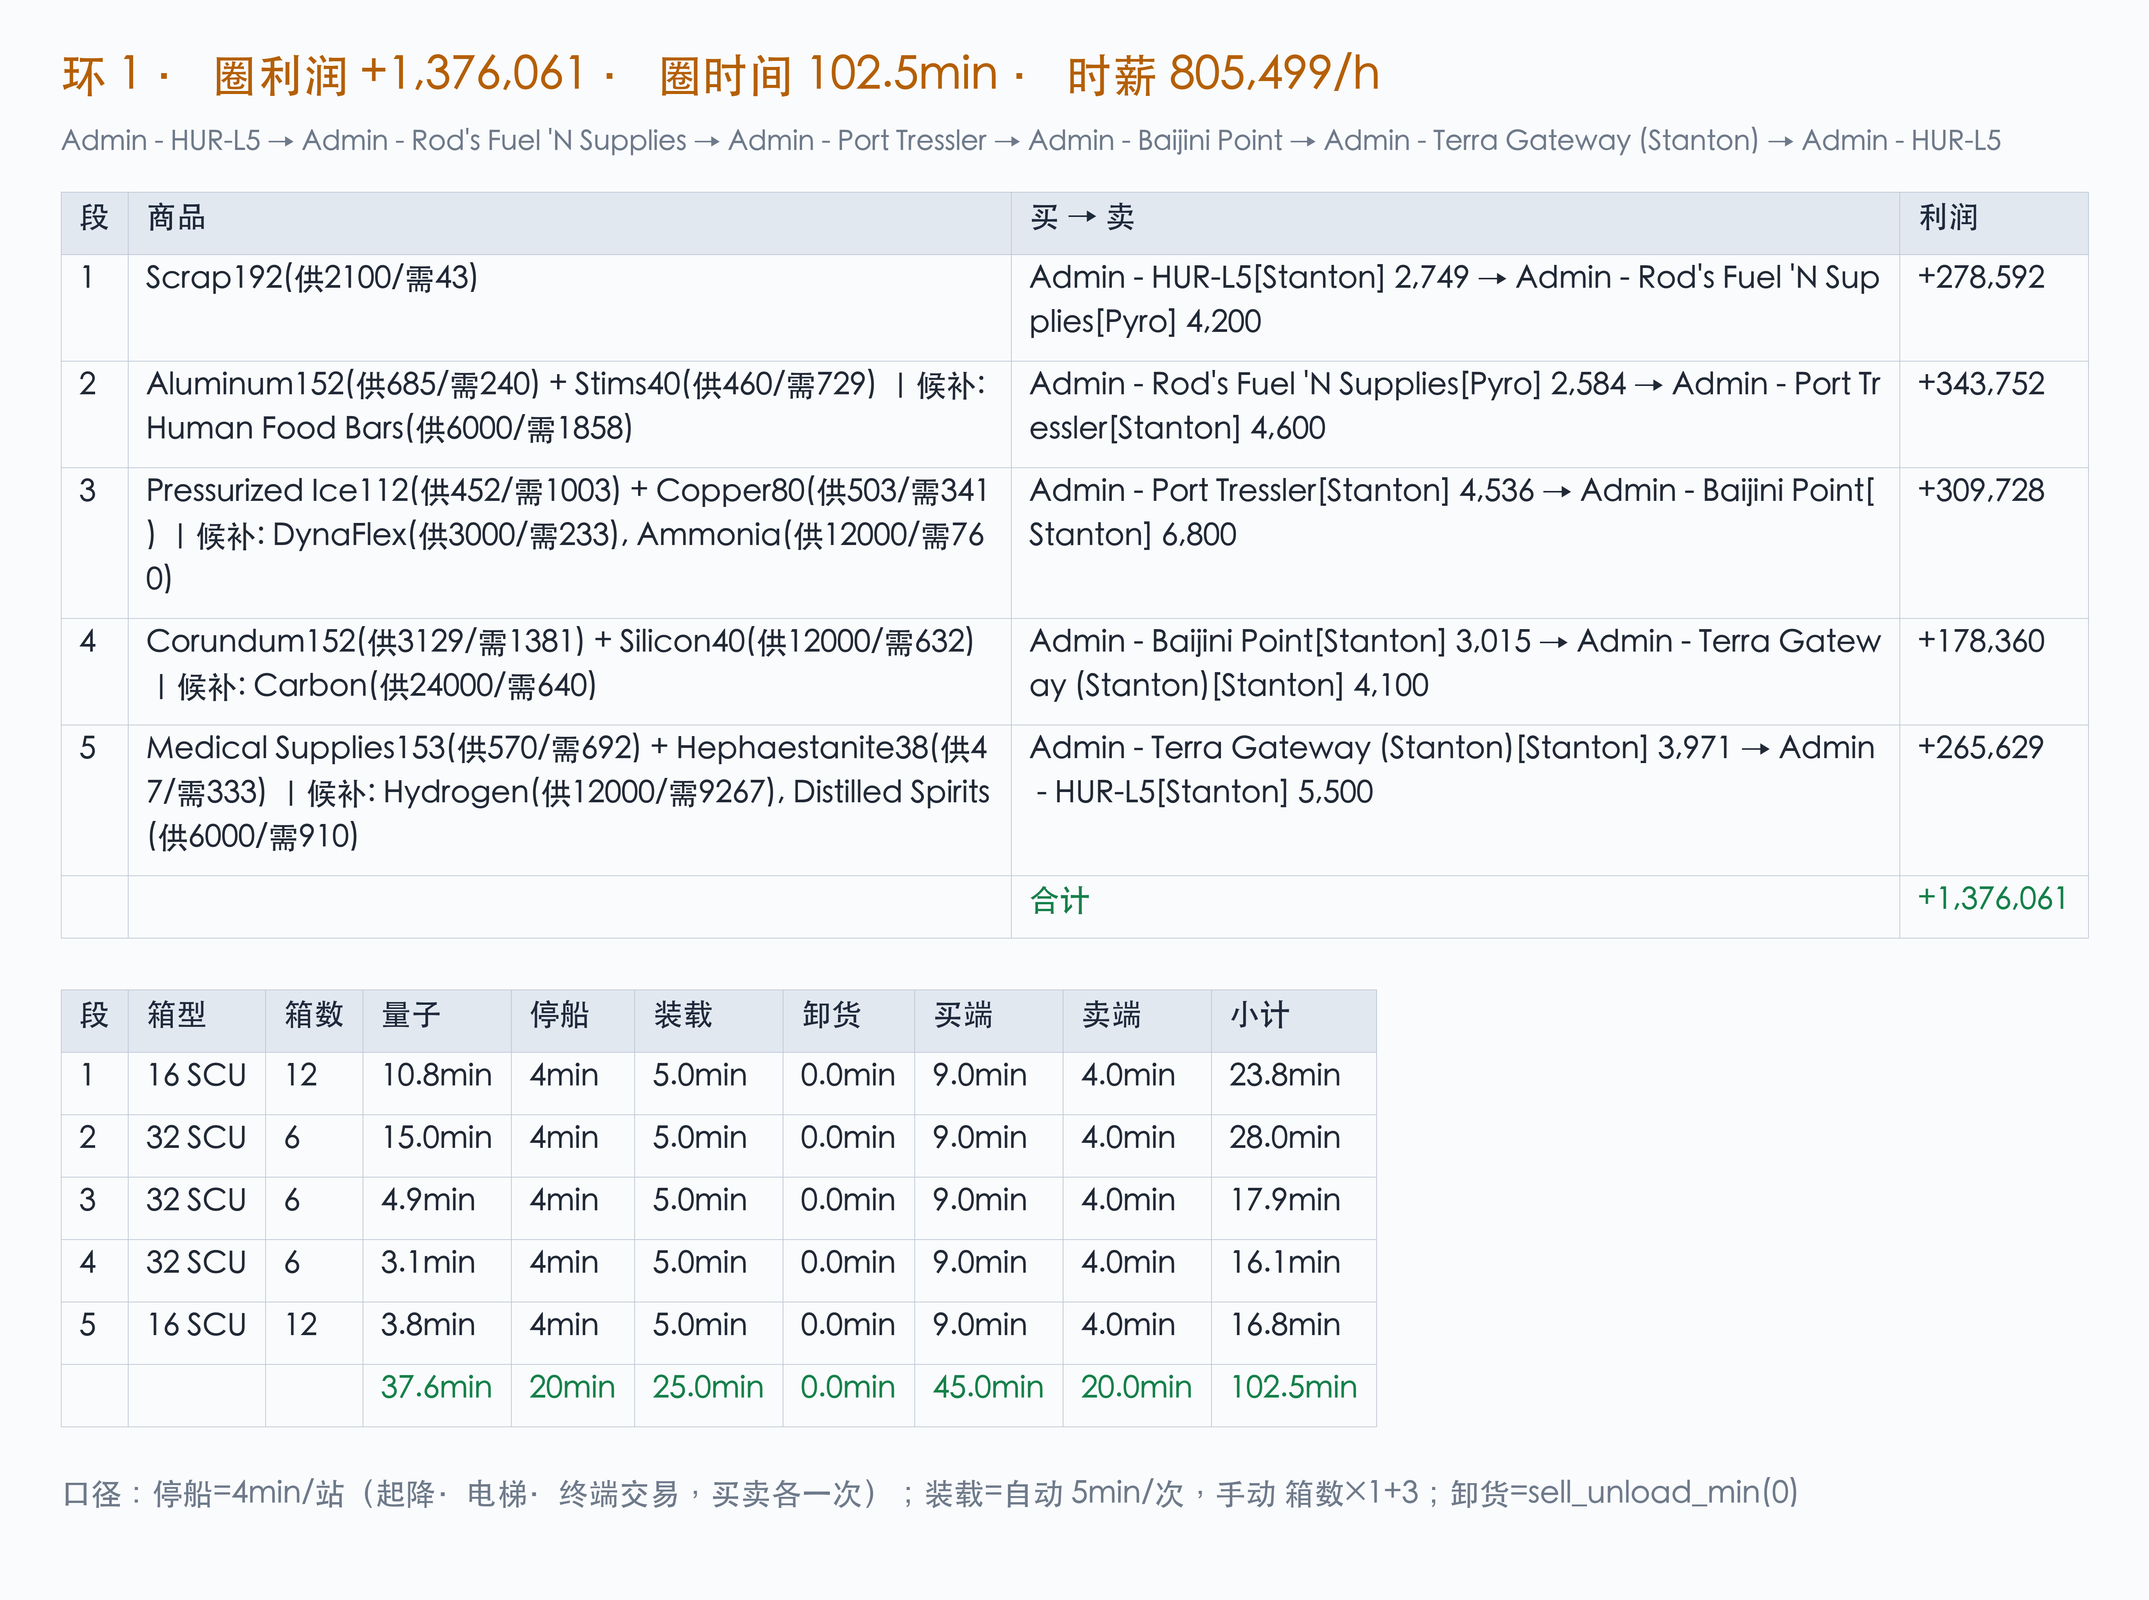
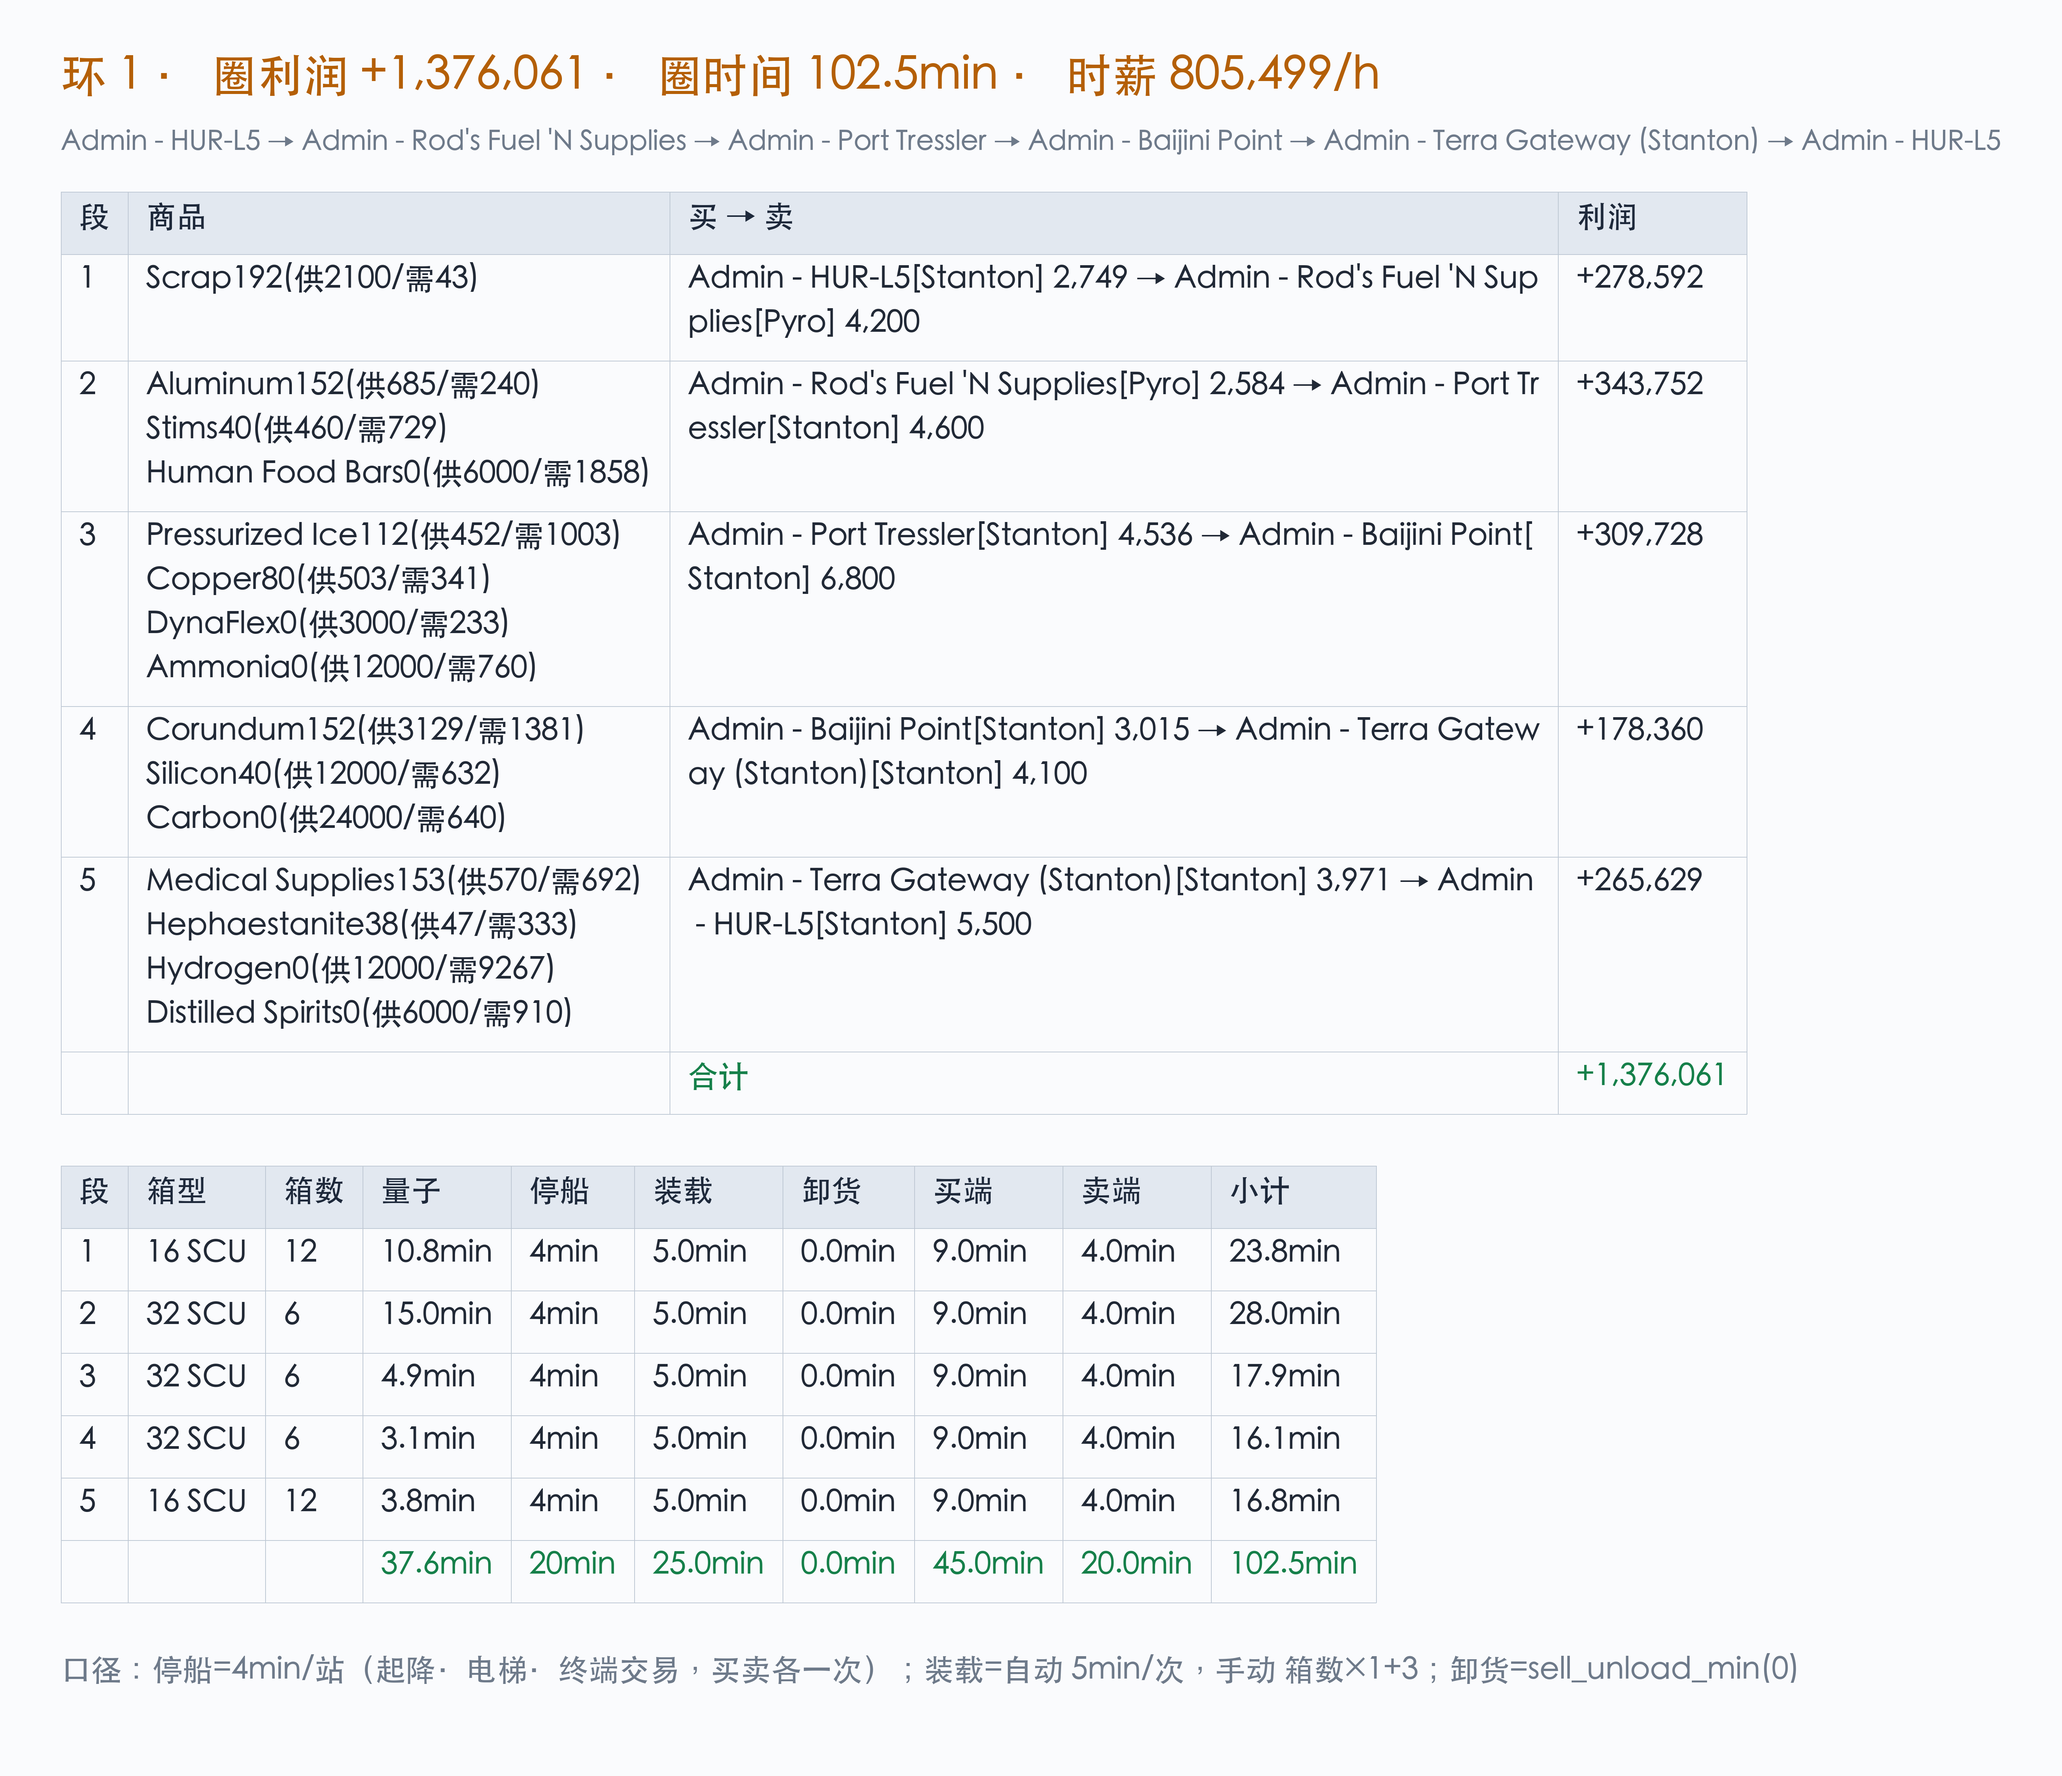
refactor: 商品列改为按优先级分行，不再区分实际购买/候补
商品列现在把该航程**所有**可选商品按单位利润降序列出，每行一个；行内带实际
分配到的数量（未装到的显示 0），格式：商品名数量(供X/需Y)。
  Pressurized Ice112(供452/需1003)
  Copper80(供503/需341)
  DynaFlex0(供3000/需233)
  Ammonia0(供12000/需760)

route_png.py 的 wrap() 支持 <br> 强制换行，图片里正确分行渲染。
重新生成 4 倍图：raft_5leg_pyro.png / raft_5leg_stanton.png。

diff --git a/skills/sc-trader/scripts/recommend.py b/skills/sc-trader/scripts/recommend.py
@@ -1271,15 +1271,13 @@ def run_loop_search(args) -> int:
             cands = lg.get("cands") or []
             sel = {it["commodity"] for it in items}
 
-            def cell(it, with_qty):
-                sd = (it.get("sell_row") or {}).get("scu_sell_stock")
-                return (f"{it['commodity']}{it['qty']}" if with_qty else f"{it['commodity']}") \
-                    + f"(\u4f9b{it.get('scu_stock')}/\u9700{sd if sd is not None else '-'})"
-
-            goods = " + ".join(cell(it, True) for it in items)
-            alt = [cell(c, False) for c in cands if c["commodity"] not in sel]
-            if alt:
-                goods += " \uff5c\u5019\u8865: " + ", ".join(alt)
+            taken = {it["commodity"]: it["qty"] for it in items}
+            rows_out = []
+            for c in cands:
+                sd = (c.get("sell_row") or {}).get("scu_sell_stock")
+                q = taken.get(c["commodity"], 0)
+                rows_out.append(f"{c['commodity']}{q}(供{c.get('scu_stock')}/需{sd if sd is not None else '-'})")
+            goods = "<br>".join(rows_out)
             print(f"| {n} | {goods} | "
                   f"{bn}[{sys_a}] {lg['price_buy']:,} \u2192 {sn}[{sys_b}] {lg['price_sell']:,} | "
                   f"+{lg['leg_profit']:,} |")

diff --git a/skills/sc-trader/scripts/route_png.py b/skills/sc-trader/scripts/route_png.py
@@ -66,16 +66,20 @@ def load_font(size: int):
 
 
 def wrap(text: str, font, max_w: int) -> list:
-    lines, cur = [], ""
-    for ch in text:
-        if cur and font.getlength(cur + ch) > max_w:
+    """按像素宽度折行；<br> 强制换行（表格里商品按优先级分行用）。"""
+    out = []
+    for seg in text.split("<br>"):
+        lines, cur = [], ""
+        for ch in seg:
+            if cur and font.getlength(cur + ch) > max_w:
+                lines.append(cur)
+                cur = ch
+            else:
+                cur += ch
+        if cur:
             lines.append(cur)
-            cur = ch
-        else:
-            cur += ch
-    if cur:
-        lines.append(cur)
-    return lines or [""]
+        out.extend(lines or [""])
+    return out or [""]
 
 
 def parse_tables(md: str) -> list:
